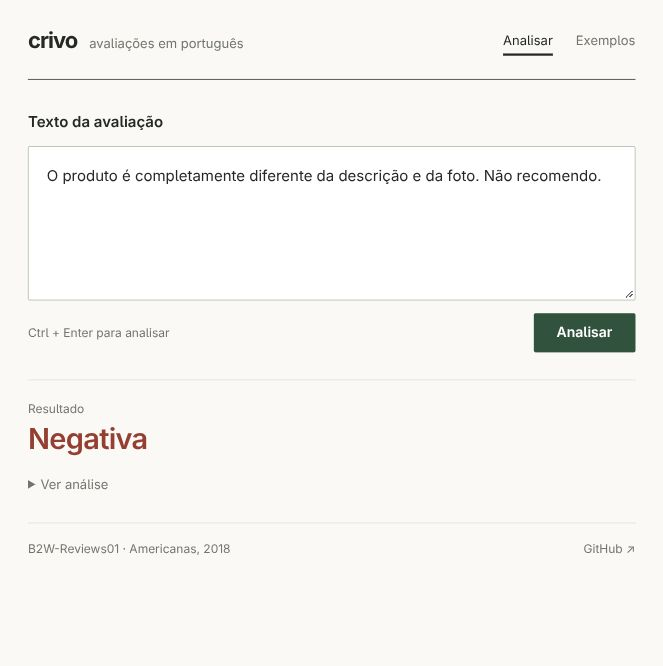
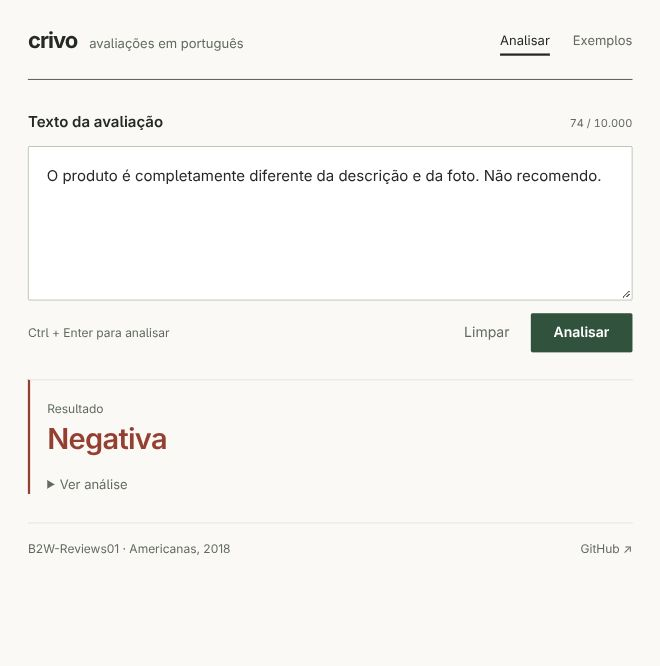
feat(ui): melhora edição, cancelamento e navegação dos exemplos

diff --git a/src/crivo/demo.html b/src/crivo/demo.html
@@ -1,24 +1,36 @@
 <!doctype html>
 <html lang="pt-BR"><head><meta charset="utf-8"><meta name="viewport" content="width=device-width, initial-scale=1"><title>Analisar · Crivo</title><link rel="stylesheet" href="/style.css"></head>
-<body><div class="shell"><header><a class="brand" href="/">crivo<span>avaliações em português</span></a><nav aria-label="Navegação"><a href="/" aria-current="page">Analisar</a><a href="/exemplos" >Exemplos</a></nav></header><main><form id="form"><label for="text">Texto da avaliação</label><textarea id="text" maxlength="10000" placeholder="Escreva ou cole uma avaliação…" required></textarea><div class="actions"><small>Ctrl + Enter para analisar</small><button id="submit" type="submit">Analisar</button></div><p id="error" role="alert" hidden></p></form>
+<body><div class="shell"><header><a class="brand" href="/">crivo<span>avaliações em português</span></a><nav aria-label="Navegação"><a href="/" aria-current="page">Analisar</a><a href="/exemplos" >Exemplos</a></nav></header><main><form id="form"><div class="field-heading"><label for="text">Texto da avaliação</label><span id="count" class="count">0 / 10.000</span></div><textarea id="text" maxlength="10000" aria-describedby="count" placeholder="Escreva ou cole uma avaliação…" required></textarea><div class="actions"><small>Ctrl + Enter para analisar</small><div class="action-buttons"><button id="clear" class="quiet" type="button" disabled>Limpar</button><button id="submit" type="submit" disabled>Analisar</button></div></div><p id="error" role="alert" hidden></p></form>
 <section class="result" id="result" aria-live="polite" hidden><p class="eyebrow">Resultado</p><h1 id="decision"></h1><p id="reason" hidden></p><details id="analysis"><summary>Ver análise</summary><div class="stats"><div>Score<span id="score"></span></div><div>Limiar<span id="threshold"></span></div></div><table id="terms"><thead><tr><th scope="col">Termo</th><th scope="col">Peso</th></tr></thead><tbody id="term-rows"></tbody></table></details></section></main><footer><span><a href="https://github.com/americanas-tech/b2w-reviews01">B2W-Reviews01</a> · Americanas, 2018</span><a href="https://github.com/oyogi/crivo">GitHub ↗</a></footer></div><script>
-const form=document.querySelector('#form'),text=document.querySelector('#text'),button=document.querySelector('#submit'),result=document.querySelector('#result'),error=document.querySelector('#error');
+const form=document.querySelector('#form'),text=document.querySelector('#text'),button=document.querySelector('#submit'),clear=document.querySelector('#clear'),result=document.querySelector('#result'),error=document.querySelector('#error');
 const format=value=>new Intl.NumberFormat('pt-BR',{minimumFractionDigits:2,maximumFractionDigits:4}).format(value);
-text.addEventListener('input',()=>{result.hidden=true;error.hidden=true;});
-text.addEventListener('keydown',event=>{if((event.ctrlKey||event.metaKey)&&event.key==='Enter'){event.preventDefault();if(!button.disabled)form.requestSubmit();}});
+const countFormat=new Intl.NumberFormat('pt-BR');
+let controller=null,generation=0;
+function ready(){button.disabled=!text.value.trim();clear.disabled=!text.value.length;button.textContent='Analisar';form.setAttribute('aria-busy','false');}
+function updateCount(){document.querySelector('#count').textContent=countFormat.format(text.value.length)+' / 10.000';}
+function cancel(){generation++;if(controller)controller.abort();controller=null;ready();}
+text.addEventListener('input',()=>{cancel();updateCount();result.hidden=true;error.hidden=true;});
+clear.addEventListener('click',()=>{cancel();text.value='';updateCount();ready();result.hidden=true;error.hidden=true;text.focus();});
+text.addEventListener('keydown',event=>{
+ if((event.ctrlKey||event.metaKey)&&event.key==='Enter'){event.preventDefault();if(!button.disabled)form.requestSubmit();}
+ if(event.key==='Escape'&&controller){event.preventDefault();cancel();}
+});
 form.addEventListener('submit',async event=>{
- event.preventDefault();const submitted=text.value;button.disabled=true;text.disabled=true;button.textContent='Analisando…';error.hidden=true;result.hidden=true;result.setAttribute('aria-busy','true');
+ event.preventDefault();if(!text.value.trim())return;
+ if(controller)controller.abort();controller=new AbortController();const current=++generation,submitted=text.value;
+ button.disabled=true;button.textContent='Analisando…';error.hidden=true;result.hidden=true;form.setAttribute('aria-busy','true');
  try{
-  const response=await fetch('/predict',{method:'POST',headers:{'Content-Type':'application/json'},body:JSON.stringify({text:submitted})});
-  const data=await response.json();if(!response.ok)throw new Error(data.erro||'Não foi possível analisar. Tente novamente.');
+  const response=await fetch('/predict',{method:'POST',headers:{'Content-Type':'application/json'},body:JSON.stringify({text:submitted}),signal:controller.signal});
+  const data=await response.json();if(current!==generation)return;if(!response.ok)throw new Error(data.erro||'Não foi possível analisar. Tente novamente.');
   result.dataset.decision=data.decisao;document.querySelector('#decision').textContent={positiva:'Positiva',negativa:'Negativa',revisar:'Revisar'}[data.decisao];
   const reason=document.querySelector('#reason');reason.hidden=data.decisao!=='revisar';reason.textContent=data.motivo==='sem_vocabulario'?'Nenhum termo reconhecido.':'O score ficou abaixo do limiar.';
   document.querySelector('#score').textContent=format(data.score);document.querySelector('#threshold').textContent=format(data.limiar);
   const rows=document.querySelector('#term-rows');rows.replaceChildren();
   for(const term of data.termos){const row=document.createElement('tr'),name=document.createElement('td'),weight=document.createElement('td');name.textContent=term.termo;weight.textContent=(term.peso>0?'+':'')+format(term.peso);weight.className=term.peso>0?'positive':'negative';row.append(name,weight);rows.append(row);}
   document.querySelector('#terms').hidden=data.termos.length===0;document.querySelector('#analysis').open=false;result.hidden=false;
- }catch(problem){error.textContent=problem.message;error.hidden=false;}
- finally{button.disabled=false;text.disabled=false;button.textContent='Analisar';result.setAttribute('aria-busy','false');}
+ }catch(problem){if(current!==generation||problem.name==='AbortError')return;error.textContent=problem.message;error.hidden=false;}
+ finally{if(current===generation){controller=null;ready();}}
 });
-try{const selected=sessionStorage.getItem('crivo-example');if(selected){text.value=selected;sessionStorage.removeItem('crivo-example');form.requestSubmit();}}catch{}
+updateCount();ready();
+try{const selected=sessionStorage.getItem('crivo-example');if(selected){text.value=selected;sessionStorage.removeItem('crivo-example');updateCount();ready();form.requestSubmit();}}catch{}
 </script></body></html>

diff --git a/src/crivo/style.css b/src/crivo/style.css
@@ -1,3 +1,5 @@
 
-:root{color-scheme:light;--paper:#faf9f6;--ink:#242923;--muted:#72766e;--line:#dddfd6;--green:#31523c;--negative:#943f32;--review:#8a641d}
+:root{color-scheme:light;--paper:#faf9f6;--ink:#242923;--muted:#626a60;--line:#dddfd6;--green:#31523c;--negative:#943f32;--review:#8a641d}
 *{box-sizing:border-box}body{margin:0;background:var(--paper);color:var(--ink);font:15px/1.5 system-ui,sans-serif}a{color:inherit;text-underline-offset:4px}button,textarea{font:inherit}button,a,summary{-webkit-tap-highlight-color:transparent}a:focus-visible,button:focus-visible,summary:focus-visible{outline:2px solid var(--green);outline-offset:4px}.shell{max-width:820px;margin:auto;padding:0 28px}header{display:flex;align-items:center;justify-content:space-between;padding:25px 0 21px;border-bottom:1px solid var(--ink)}.brand{font-size:22px;font-weight:750;letter-spacing:-1px;text-decoration:none}.brand span{font-weight:400;color:var(--muted);letter-spacing:0;font-size:13px;margin-left:12px}nav{display:flex;gap:23px;font-size:13px}nav a{text-decoration:none;color:var(--muted)}nav a[aria-current]{color:var(--ink);text-decoration:underline;text-decoration-thickness:2px;text-underline-offset:8px}main{padding:32px 0 28px}h1{font-size:19px;letter-spacing:-.4px;margin:0 0 18px;font-weight:650}label{display:block;font-weight:650;margin-bottom:12px}textarea{width:100%;display:block;min-height:154px;resize:vertical;padding:17px 18px;color:var(--ink);background:#fff;border:1px solid #aeb6a8;border-radius:2px;line-height:1.6}textarea:focus{outline:2px solid var(--green);outline-offset:1px}textarea::placeholder{color:#92968e}.actions{display:flex;justify-content:space-between;align-items:center;margin-top:13px}.actions small{font-size:12px;color:var(--muted)}button,.use{border:0;border-radius:2px;background:var(--green);color:#fff;padding:9px 23px;cursor:pointer;font-weight:600;font-size:14px}button:hover,.use:hover{background:#203f2b}button:disabled{opacity:.55;cursor:wait}#error{color:var(--negative);font-size:13px;margin:12px 0 0}.result{border-top:1px solid var(--line);margin-top:27px;padding-top:20px}.eyebrow{font-size:12px;color:var(--muted);margin:0 0 4px}#decision{font-size:29px;letter-spacing:-.7px;line-height:1.2;margin:0;font-weight:650}.result[data-decision="positiva"] #decision{color:var(--green)}.result[data-decision="negativa"] #decision{color:var(--negative)}.result[data-decision="revisar"] #decision{color:var(--review)}#reason{margin:8px 0 0;font-size:14px;color:var(--muted)}details{margin-top:18px;font-size:13px}summary{width:fit-content;cursor:pointer;color:var(--muted)}.stats{display:flex;gap:32px;margin:18px 0 10px;color:var(--muted)}.stats span{color:var(--ink);margin-left:7px;font-variant-numeric:tabular-nums}table{width:100%;border-collapse:collapse;font-size:13px}th,td{text-align:left;border-bottom:1px solid var(--line);padding:8px 0}th{color:var(--muted);font-weight:450}th:last-child,td:last-child{text-align:right;font-variant-numeric:tabular-nums}.positive{color:var(--green)}.negative{color:var(--negative)}footer{border-top:1px solid var(--line);padding:17px 0 24px;display:flex;justify-content:space-between;gap:20px;font-size:12px;color:var(--muted)}footer a{text-decoration:none}footer a:hover{text-decoration:underline}.intro{color:var(--muted);font-size:13px;margin:-8px 0 20px}.sample{display:grid;grid-template-columns:minmax(0,1fr) auto;gap:22px;padding:21px 0;border-top:1px solid var(--line);align-items:center}.sample:last-child{border-bottom:1px solid var(--line)}blockquote{margin:0 0 10px;font-size:16px;line-height:1.65}.meta{font-size:12px;color:var(--muted);display:flex;flex-wrap:wrap;gap:15px}.use{font-size:12px;padding:8px 15px;white-space:nowrap}.source{font-size:12px;color:var(--muted);margin:19px 0 0}[hidden]{display:none!important}@media(max-width:560px){.shell{padding:0 20px}header{padding:20px 0 18px}.brand span{display:none}nav{gap:19px}main{padding-top:25px}textarea{min-height:150px}.actions small{display:none}footer{font-size:11px;gap:12px}.sample{gap:12px;grid-template-columns:1fr}.use{justify-self:start}blockquote{font-size:15px}#decision{font-size:26px}}
+
+.field-heading{display:flex;align-items:baseline;justify-content:space-between;gap:16px;margin-bottom:12px}.field-heading label{margin:0}.count{font-size:11px;font-variant-numeric:tabular-nums;color:var(--muted)}.action-buttons{display:flex;align-items:center;gap:11px}.quiet{background:transparent;color:var(--muted);padding:9px 10px;font-weight:450}.quiet:hover{background:#eeeee7;color:var(--ink)}.quiet:disabled{opacity:.35;cursor:default}.filters{display:flex;gap:4px;margin:0 0 16px;padding:3px;border:1px solid var(--line);width:fit-content;border-radius:3px}.filter{background:transparent;color:var(--muted);padding:5px 12px;font-size:12px;font-weight:500}.filter:hover{background:#eeeee7;color:var(--ink)}.filter[aria-pressed="true"]{background:var(--ink);color:var(--paper)}.result{border-left:3px solid var(--line);padding-left:17px}.result[data-decision="positiva"]{border-left-color:var(--green)}.result[data-decision="negativa"]{border-left-color:var(--negative)}.result[data-decision="revisar"]{border-left-color:var(--review)}@media(prefers-reduced-motion:no-preference){button{transition:background .12s ease}textarea{transition:border-color .12s ease}}@media(max-width:560px){.actions{justify-content:flex-end}.count{font-size:10px}.filters{gap:2px}.filter{padding:6px 10px}.action-buttons{gap:6px}}

diff --git a/src/crivo/examples.html b/src/crivo/examples.html
@@ -1,7 +1,12 @@
 <!doctype html>
 <html lang="pt-BR"><head><meta charset="utf-8"><meta name="viewport" content="width=device-width, initial-scale=1"><title>Exemplos · Crivo</title><link rel="stylesheet" href="/style.css"></head>
-<body><div class="shell"><header><a class="brand" href="/">crivo<span>avaliações em português</span></a><nav aria-label="Navegação"><a href="/" >Analisar</a><a href="/exemplos" aria-current="page">Exemplos</a></nav></header><main><h1>Avaliações da base</h1><p class="intro">Três textos do B2W-Reviews01.</p><div class="samples">
-<article class="sample"><div><blockquote>Jogo de panelas excelente material, entrega a tempo, design muito bom.</blockquote><div class="meta"><span>Nota 5 de 5</span><span>Linha 14</span><span>Produto 29302228</span></div></div><button class="use" data-example="0">Analisar texto</button></article>
-<article class="sample"><div><blockquote>O produto é completamente diferente da descrição e da foto. Não recomendo.</blockquote><div class="meta"><span>Nota 1 de 5</span><span>Linha 79</span><span>Produto 27818579</span></div></div><button class="use" data-example="1">Analisar texto</button></article>
-<article class="sample"><div><blockquote>O produto é bom, mas um dos espelhos veio quebrado</blockquote><div class="meta"><span>Nota 3 de 5</span><span>Linha 345</span><span>Produto 14738991</span></div></div><button class="use" data-example="2">Analisar texto</button></article></div>
-<p class="source"><a href="https://github.com/americanas-tech/b2w-reviews01/blob/4639429ec698d7821fc99a0bc665fa213d9fcd5a/B2W-Reviews01.csv">Consultar o CSV</a> · B2W Digital · <a href="https://creativecommons.org/licenses/by-nc-sa/4.0/">CC BY-NC-SA 4.0</a></p></main><footer><span><a href="https://github.com/americanas-tech/b2w-reviews01">B2W-Reviews01</a> · Americanas, 2018</span><a href="https://github.com/oyogi/crivo">GitHub ↗</a></footer></div><script>for(const button of document.querySelectorAll('[data-example]'))button.addEventListener('click',()=>{const selected=button.closest('article').querySelector('blockquote').textContent;try{sessionStorage.setItem('crivo-example',selected);location.href='/';}catch{button.textContent='Abra o analisador e cole o texto';}});</script></body></html>
+<body><div class="shell"><header><a class="brand" href="/">crivo<span>avaliações em português</span></a><nav aria-label="Navegação"><a href="/" >Analisar</a><a href="/exemplos" aria-current="page">Exemplos</a></nav></header><main><h1>Avaliações da base</h1><p class="intro">Três textos do B2W-Reviews01.</p><div class="filters" role="group" aria-label="Filtrar por nota"><button type="button" class="filter" data-filter="all" aria-pressed="true">Todas</button><button type="button" class="filter" data-filter="5" aria-pressed="false">Nota 5</button><button type="button" class="filter" data-filter="3" aria-pressed="false">Nota 3</button><button type="button" class="filter" data-filter="1" aria-pressed="false">Nota 1</button></div><div class="samples">
+<article class="sample" data-rating="5"><div><blockquote>Jogo de panelas excelente material, entrega a tempo, design muito bom.</blockquote><div class="meta"><span>Nota 5 de 5</span><span>Linha 14</span><span>Produto 29302228</span></div></div><button class="use" data-example="0">Analisar texto</button></article>
+<article class="sample" data-rating="1"><div><blockquote>O produto é completamente diferente da descrição e da foto. Não recomendo.</blockquote><div class="meta"><span>Nota 1 de 5</span><span>Linha 79</span><span>Produto 27818579</span></div></div><button class="use" data-example="1">Analisar texto</button></article>
+<article class="sample" data-rating="3"><div><blockquote>O produto é bom, mas um dos espelhos veio quebrado</blockquote><div class="meta"><span>Nota 3 de 5</span><span>Linha 345</span><span>Produto 14738991</span></div></div><button class="use" data-example="2">Analisar texto</button></article></div>
+<p class="source"><a href="https://github.com/americanas-tech/b2w-reviews01/blob/4639429ec698d7821fc99a0bc665fa213d9fcd5a/B2W-Reviews01.csv">Consultar o CSV</a> · B2W Digital · <a href="https://creativecommons.org/licenses/by-nc-sa/4.0/">CC BY-NC-SA 4.0</a></p></main><footer><span><a href="https://github.com/americanas-tech/b2w-reviews01">B2W-Reviews01</a> · Americanas, 2018</span><a href="https://github.com/oyogi/crivo">GitHub ↗</a></footer></div><script>for(const button of document.querySelectorAll('[data-example]'))button.addEventListener('click',()=>{const selected=button.closest('article').querySelector('blockquote').textContent;try{sessionStorage.setItem('crivo-example',selected);location.href='/';}catch{button.textContent='Abra o analisador e cole o texto';}});
+for(const filter of document.querySelectorAll('[data-filter]'))filter.addEventListener('click',()=>{
+ for(const other of document.querySelectorAll('[data-filter]'))other.setAttribute('aria-pressed',String(other===filter));
+ for(const sample of document.querySelectorAll('[data-rating]'))sample.hidden=filter.dataset.filter!=='all'&&sample.dataset.rating!==filter.dataset.filter;
+});
+</script></body></html>

diff --git a/src/crivo/web.py b/src/crivo/web.py
@@ -2,7 +2,7 @@
 
 import json
 import socket
-from http.server import BaseHTTPRequestHandler, HTTPServer
+from http.server import BaseHTTPRequestHandler, ThreadingHTTPServer
 from importlib.resources import files
 
 from .model import predict
@@ -27,7 +27,10 @@ def make_handler(bundle: dict):
                              "script-src 'unsafe-inline'; style-src 'self'; "
                              "base-uri 'none'; frame-ancestors 'none'")
             self.end_headers()
-            self.wfile.write(body)
+            try:
+                self.wfile.write(body)
+            except (BrokenPipeError, ConnectionResetError):
+                pass
 
         def json_response(self, status: int, value: dict):
             body = json.dumps(value, ensure_ascii=False, allow_nan=False).encode("utf-8")
@@ -78,7 +81,7 @@ def make_handler(bundle: dict):
 
 
 def serve(bundle: dict, port: int = 8000):
-    with HTTPServer(("127.0.0.1", port), make_handler(bundle)) as server:
+    with ThreadingHTTPServer(("127.0.0.1", port), make_handler(bundle)) as server:
         print(f"demo em http://127.0.0.1:{server.server_port}; ctrl+c para sair")
         try:
             server.serve_forever()
